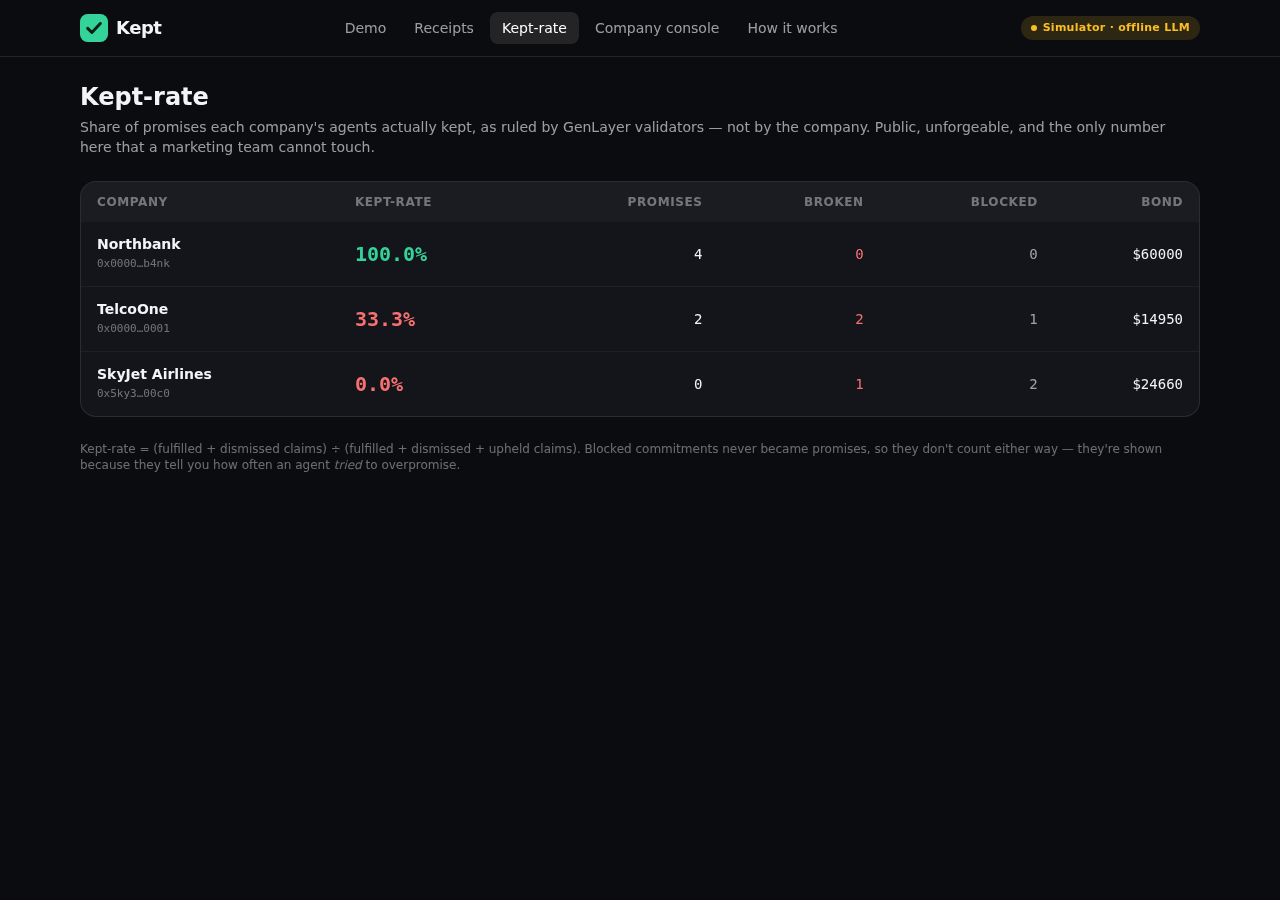
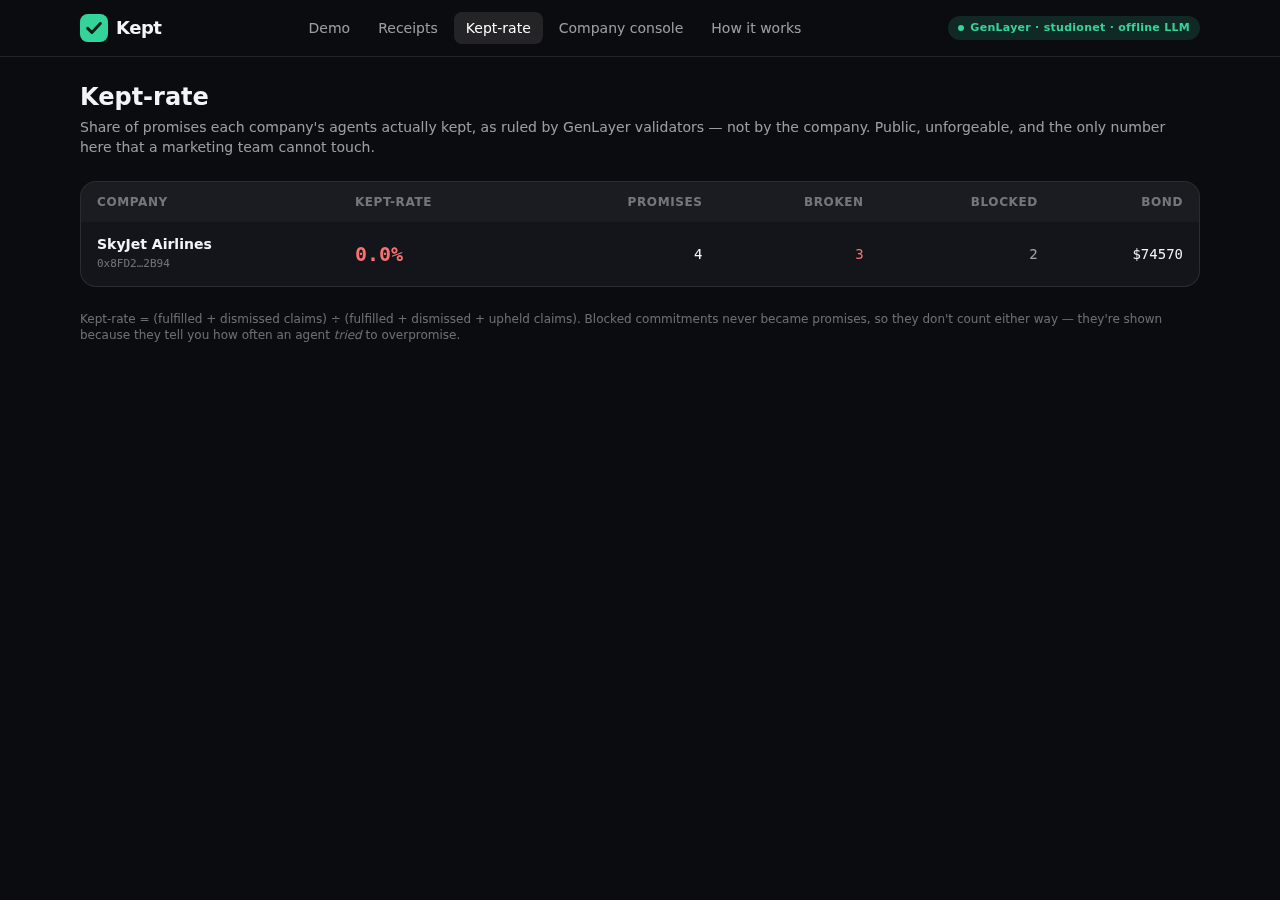
chain: deploy script + studionet deployment (0x9a4C…2F57); CalldataAddress args; per-visitor burner identity (cookie) so each visitor owns their receipts and claims; real validator votes surfaced; immediate-claim demo window

diff --git a/web/src/app/r/[id]/page.tsx b/web/src/app/r/[id]/page.tsx
@@ -15,6 +15,8 @@ export default function ReceiptPage({ params }: { params: { id: string } }) {
   const [err, setErr] = useState<string | null>(null);
   const [tab, setTab] = useState<"customer" | "company">("customer");
   const [proof, setProof] = useState("");
+  const [me, setMe] = useState<{ user?: string; backend?: string; immediateClaims?: boolean }>({});
+  useEffect(() => { fetch("/api/backend").then((x) => x.json()).then(setMe).catch(() => {}); }, []);
 
   const load = () => fetch(`/api/receipt/${params.id}`).then(async (x) => { if (x.status === 404) { setNotFound(true); return; } setR((await x.json()).receipt); });
   useEffect(() => { load(); /* eslint-disable-next-line */ }, [params.id]);
@@ -22,8 +24,10 @@ export default function ReceiptPage({ params }: { params: { id: string } }) {
   if (notFound) return <div className="card p-8 text-center text-white/60">No receipt <span className="mono">{params.id}</span>.</div>;
   if (!r) return <div className="text-white/40">Loading…</div>;
 
-  const overdue = new Date(r.due + "T00:00:00Z").getTime() < Date.now();
+  const overdue = new Date(r.due + "T00:00:00Z").getTime() <= Date.now();
   const canClaim = r.status === "ACTIVE";
+  const mine = !!me.user && me.user.toLowerCase() === r.user.toLowerCase();
+  const onChain = me.backend === "chain";
 
   async function claim() {
     if (!r) return;
@@ -33,7 +37,7 @@ export default function ReceiptPage({ params }: { params: { id: string } }) {
       const res = await fetch("/api/claim", { method: "POST", headers: { "content-type": "application/json" }, body: JSON.stringify({ id: r.id, evidence, today: today || undefined }) });
       const d = await res.json();
       if (d.error) throw new Error(d.error);
-      setLog((l) => [...l, `Verdict: ${d.verdict}${d.votes ? ` (${d.votes})` : ""}.`, d.verdict === "UPHELD" ? `$${d.receipt.payout} paid from ${r.company_name}'s bond to ${short(r.user)}.` : "Claim dismissed. Kept-rate unchanged."]);
+      setLog((l) => [...l, `Verdict: ${d.verdict}${d.votes ? ` — ${d.votes}` : ""}.`, d.verdict === "UPHELD" ? `$${d.receipt.payout} paid from ${r.company_name}'s bond to ${short(r.user)}.` : "Claim dismissed. Kept-rate unchanged."]);
       setR(d.receipt);
     } catch (e: any) { setErr(e.message); } finally { setBusy(null); }
   }
@@ -63,7 +67,7 @@ export default function ReceiptPage({ params }: { params: { id: string } }) {
         <div className="text-2xl font-bold leading-snug">{r.promise}</div>
         <dl className="mt-5 grid gap-x-8 gap-y-3 text-sm sm:grid-cols-2">
           <div><dt className="k">Company</dt><dd className="mt-0.5"><Link className="underline" href={`/console?c=${r.company}`}>{r.company_name}</Link> <span className="mono text-white/40">{short(r.company)}</span></dd></div>
-          <div><dt className="k">Promised to</dt><dd className="mono mt-0.5">{short(r.user)}</dd></div>
+          <div><dt className="k">Promised to</dt><dd className="mono mt-0.5">{short(r.user)} {mine && <span className="pill ml-1 bg-mint/15 text-mint">YOU</span>}</dd></div>
           <div><dt className="k">Value</dt><dd className="mono mt-0.5">{r.amount > 0 ? `$${r.amount}` : "—"}</dd></div>
           <div><dt className="k">Due</dt><dd className="mono mt-0.5">{r.due} {canClaim && overdue && <span className="pill ml-2 bg-amber/15 text-amber">OVERDUE</span>}</dd></div>
           <div className="sm:col-span-2"><dt className="k">Envelope check</dt><dd className="mt-0.5">{r.status === "BLOCKED" ? <span className="text-rose">✕ outside authority</span> : <span className="text-mint">✓ within authority</span>} <span className="text-white/60">— {r.check_reason}</span></dd></div>
@@ -72,7 +76,7 @@ export default function ReceiptPage({ params }: { params: { id: string } }) {
           {r.verdict_reason && <div className="sm:col-span-2"><dt className="k">Validators&apos; reasoning</dt><dd className="mt-0.5 text-white/80">{r.verdict_reason}</dd></div>}
           {r.status === "UPHELD" && <div className="sm:col-span-2 rounded-xl bg-mint/10 p-3 text-mint"><b>${r.payout}</b> paid to {short(r.user)} from {r.company_name}&apos;s bond.</div>}
           <div><dt className="k">Created</dt><dd className="mono mt-0.5 text-white/60">{r.created_at}</dd></div>
-          <div><dt className="k">Anchored</dt><dd className="mono mt-0.5 text-white/60">{r.tx ? r.tx : "GenLayer (simulator)"}</dd></div>
+          <div className="sm:col-span-2"><dt className="k">Anchored</dt><dd className="mono mt-0.5 break-all text-white/60">{onChain ? <>GenLayer {me.backend === "chain" ? "" : ""}{r.tx ? <a className="underline" href={`https://genlayer-explorer.vercel.app/tx/${r.tx}`} target="_blank" rel="noreferrer">{r.tx}</a> : "(read from contract)"}</> : "simulator twin of the contract (no chain)"}</dd></div>
         </dl>
       </div>
 
@@ -89,12 +93,13 @@ export default function ReceiptPage({ params }: { params: { id: string } }) {
           {tab === "customer" ? (
             <div className="space-y-3">
               <h3 className="font-bold">Not honored? Claim it.</h3>
-              <p className="text-sm text-white/60">GenLayer validators read the transcript and your evidence, then rule. If upheld, <b className="text-white">${Math.max(r.amount, 0)}</b> is paid from {r.company_name}&apos;s bond automatically. Claims open after the due date.</p>
+              <p className="text-sm text-white/60">GenLayer validators read the transcript and your evidence, then rule. If upheld, <b className="text-white">${Math.max(r.amount, 0)}</b> is paid from {r.company_name}&apos;s bond automatically. Claims open on the due date{onChain && me.immediateClaims ? " — for this demo the due date is set to today so you don't have to wait five business days" : ""}.</p>
+              {!mine && <p className="rounded-lg bg-amber/10 p-2 text-xs text-amber">This promise was made to a different visitor. The contract only lets the promised user claim — go make your own promise in the demo chat.</p>}
               <textarea className="input min-h-[80px]" placeholder="What happened? e.g. It's been 9 business days and nothing arrived. Bank statement attached in the ticket." value={evidence} onChange={(e) => setEvidence(e.target.value)} />
               <div className="flex flex-wrap items-center gap-3">
-                <label className="text-xs text-white/50">Demo clock <input className="input ml-2 inline-block w-40 !py-1.5" placeholder="YYYY-MM-DD (fast-forward)" value={today} onChange={(e) => setToday(e.target.value)} /></label>
-                {!overdue && !today && <button className="text-xs text-mint underline" onClick={() => { const d = new Date(r.due + "T00:00:00Z"); d.setUTCDate(d.getUTCDate() + 5); setToday(d.toISOString().slice(0, 10)); }}>fast-forward past due date</button>}
-                <button className="btn-primary ml-auto" onClick={claim} disabled={!!busy || !evidence.trim()}>{busy === "claim" ? "Validators ruling…" : "File claim"}</button>
+                {!onChain && <label className="text-xs text-white/50">Demo clock <input className="input ml-2 inline-block w-40 !py-1.5" placeholder="YYYY-MM-DD (fast-forward)" value={today} onChange={(e) => setToday(e.target.value)} /></label>}
+                {!onChain && !overdue && !today && <button className="text-xs text-mint underline" onClick={() => { const d = new Date(r.due + "T00:00:00Z"); d.setUTCDate(d.getUTCDate() + 5); setToday(d.toISOString().slice(0, 10)); }}>fast-forward past due date</button>}
+                <button className="btn-primary ml-auto" onClick={claim} disabled={!!busy || !evidence.trim() || !mine}>{busy === "claim" ? (onChain ? "Validators ruling on GenLayer… ~20s" : "Validators ruling…") : "File claim"}</button>
               </div>
             </div>
           ) : (

diff --git a/web/src/lib/chain.ts b/web/src/lib/chain.ts
@@ -10,6 +10,12 @@
 import { createClient, createAccount } from "genlayer-js";
 import * as chains from "genlayer-js/chains";
 import type { Company, Receipt, Stats } from "./types";
+import { CalldataAddress } from "genlayer-js/types";
+
+/** Contract `Address` params must be calldata addresses, not hex strings. */
+export function addr(hex: string) {
+  return new CalldataAddress(Uint8Array.from(Buffer.from(hex.replace(/^0x/, ""), "hex")));
+}
 
 const ADDRESS = (process.env.KEPT_CONTRACT || "") as `0x${string}`;
 const NET = process.env.GENLAYER_NETWORK || "studionet";
@@ -30,6 +36,14 @@ function client(privateKey?: string) {
 
 export const companyKey = () => process.env.KEPT_COMPANY_KEY as `0x${string}` | undefined;
 export const userKey = () => process.env.KEPT_USER_KEY as `0x${string}` | undefined;
+
+/** Studio faucet (studionet / localnet). The SDK's fundAccount refuses non-localnet chains; the RPC itself is fine. */
+export async function fundAccount(address: string, amount = 100000): Promise<boolean> {
+  const url = process.env.GENLAYER_RPC || chain().rpcUrls.default.http[0];
+  const res = await fetch(url, { method: "POST", headers: { "content-type": "application/json" }, body: JSON.stringify({ jsonrpc: "2.0", id: 1, method: "sim_fundAccount", params: [address, amount] }) });
+  const data = await res.json().catch(() => ({}));
+  return Boolean(data.result);
+}
 
 export function addressOf(privateKey: string): string {
   return createAccount(privateKey as `0x${string}`).address;
@@ -66,7 +80,7 @@ export const chainApi = {
     return write(privateKey, "register", [name, envelope], bond);
   },
   async commit(privateKey: string, user: string, promise: string, amount: number, due: string, transcript: string): Promise<{ id: string; hash: string }> {
-    const { hash, receipt } = await write(privateKey, "commit", [user, promise, amount, due, transcript]);
+    const { hash, receipt } = await write(privateKey, "commit", [addr(user), promise, amount, due, transcript]);
     // result of the write is the receipt id; fall back to scanning the company's receipts
     let id: string | undefined = extractReturn(receipt);
     if (!id) {
@@ -80,16 +94,23 @@ export const chainApi = {
     return write(privateKey, "mark_fulfilled", [id, proof]);
   },
   async claim(privateKey: string, id: string, evidence: string) {
-    return write(privateKey, "claim", [id, evidence]);
+    const out = await write(privateKey, "claim", [id, evidence]);
+    return { ...out, votes: votesOf(out.receipt) };
   },
   getReceipt: (id: string) => read<any>("get_receipt", [id]).then(toReceipt),
-  getCompany: (address: string) => read<any>("get_company", [address]).then(toCompany),
+  getCompany: (address: string) => read<any>("get_company", [addr(address)]).then(toCompany),
   leaderboard: () => read<any[]>("leaderboard").then((l) => l.map(toCompany)),
   listReceipts: (limit = 50) => read<any[]>("list_receipts", [limit]).then((l) => l.map(toReceipt)),
-  receiptsForUser: (u: string) => read<any[]>("receipts_for_user", [u]).then((l) => l.map(toReceipt)),
-  receiptsForCompany: (c: string) => read<any[]>("receipts_for_company", [c]).then((l) => l.map(toReceipt)),
+  receiptsForUser: (u: string) => read<any[]>("receipts_for_user", [addr(u)]).then((l) => l.map(toReceipt)),
+  receiptsForCompany: (c: string) => read<any[]>("receipts_for_company", [addr(c)]).then((l) => l.map(toReceipt)),
   stats: () => read<any>("stats").then((s) => Object.fromEntries(Object.entries(s).map(([k, v]) => [k, Number(v)])) as unknown as Stats),
 };
+
+/** Validator votes from a transaction receipt: e.g. ["agree","agree","agree"] (idle validators omitted). */
+export function votesOf(receipt: any): string[] {
+  const v = receipt?.consensus_data?.votes || {};
+  return Object.values(v).filter((x) => x !== "idle") as string[];
+}
 
 function extractReturn(receipt: any): string | undefined {
   // genlayer-js receipts carry the execution result in a few possible places depending on version

diff --git a/web/src/lib/kept.ts b/web/src/lib/kept.ts
@@ -3,7 +3,7 @@
  *   KEPT_BACKEND=chain|sim   (default: chain if KEPT_CONTRACT is set, else sim)
  * Every call reports which backend served it so the UI can show it honestly.
  */
-import { chainApi, chainConfigured, companyKey, userKey, addressOf, chainName } from "./chain";
+import { chainApi, chainConfigured, companyKey, userKey, addressOf, chainName, fundAccount } from "./chain";
 import { sim } from "./sim";
 import type { Backend, Company, Receipt, Stats } from "./types";
 
@@ -16,7 +16,17 @@ export function backend(): Backend {
   return chainConfigured ? "chain" : "sim";
 }
 export function backendInfo() {
-  return { backend: backend(), network: backend() === "chain" ? chainName() : "sim", contract: process.env.KEPT_CONTRACT || null };
+  return { backend: backend(), network: backend() === "chain" ? chainName() : "sim", contract: process.env.KEPT_CONTRACT || null, immediateClaims: immediateClaims() };
+}
+
+/**
+ * Demo knob: on a real chain the contract enforces `today >= due` before a claim can be filed.
+ * Nobody can wait five business days inside a demo, so by default the middleware sets the
+ * on-chain `due` to today, opening the claim window at once. Set KEPT_REAL_DUE_DATES=1 to use
+ * the deadline the agent actually stated.
+ */
+export function immediateClaims(): boolean {
+  return process.env.KEPT_REAL_DUE_DATES !== "1";
 }
 
 export function companyAddress(): string {
@@ -71,17 +81,24 @@ export const kept = {
     }
     return sim.markFulfilled(companyAddress(), id, proof);
   },
-  async claim(id: string, evidence: string, today?: string): Promise<Receipt> {
+  /** `signer` = the claimant's private key (chain) / address (sim). Defaults to the shared demo user. */
+  async claim(id: string, evidence: string, today?: string, signer?: string): Promise<Receipt> {
     if (backend() === "chain") {
-      const key = userKey(); if (!key) throw new Error("connect a wallet to claim (or set KEPT_USER_KEY)");
-      const { hash } = await chainApi.claim(key, id, evidence);
-      const r = await chainApi.getReceipt(id); return { ...r, tx: hash };
+      const key = signer || userKey(); if (!key) throw new Error("no claimant key (set KEPT_USER_KEY)");
+      const { hash, votes } = await chainApi.claim(key, id, evidence);
+      const r = await chainApi.getReceipt(id); return { ...r, tx: hash, votes } as Receipt;
     }
-    return sim.claim(defaultUserAddress(), id, evidence, today);
+    return sim.claim(signer ? addressOf(signer) : defaultUserAddress(), id, evidence, today);
   },
   async registerDemoCompany(name: string, envelope: string, bond: number): Promise<Company> {
     if (backend() === "chain") {
       const key = companyKey(); if (!key) throw new Error("KEPT_COMPANY_KEY not set");
+      const already = await chainApi.getCompany(addressOf(key)).catch(() => null);
+      if (already && already.name && already.bond >= bond) return already;   // idempotent on chain
+      if (["studionet", "localnet"].includes(chainName())) {
+        await fundAccount(addressOf(key), bond * 4).catch(() => false);
+        if (userKey()) await fundAccount(addressOf(userKey()!), 1000).catch(() => false);
+      }
       await chainApi.register(key, name, envelope, BigInt(bond));
       return chainApi.getCompany(addressOf(key));
     }

diff --git a/web/src/app/api/chat/route.ts b/web/src/app/api/chat/route.ts
@@ -1,6 +1,7 @@
 import { NextResponse } from "next/server";
 import { agentReply, detectPromise, BLOCKED_REPLY } from "@/lib/agent";
-import { kept, defaultUserAddress } from "@/lib/kept";
+import { kept, immediateClaims } from "@/lib/kept";
+import { visitorId, visitorAddress, withVisitorCookie } from "@/lib/visitor";
 import type { ChatMessage } from "@/lib/types";
 export const dynamic = "force-dynamic";
 export const maxDuration = 120;
@@ -12,22 +13,25 @@ export const maxDuration = 120;
  */
 export async function POST(req: Request) {
   try {
-    const { messages, user } = (await req.json()) as { messages: ChatMessage[]; user?: string };
+    const { messages } = (await req.json()) as { messages: ChatMessage[] };
     const history = (messages || []).slice(-12);
-    const userAddr = user || defaultUserAddress();
+    const v = visitorId();
+    const userAddr = visitorAddress(v.id);
+    const done = (body: any) => withVisitorCookie(NextResponse.json(body), v);
 
     const raw = await agentReply(history);
     const detected = await detectPromise(history, raw);
-    if (!detected) return NextResponse.json({ reply: raw, detected: null });
+    if (!detected) return done({ reply: raw, detected: null });
 
     const transcript = [...history, { role: "assistant", content: raw }]
       .map((m) => `${m.role === "user" ? "User" : "Agent"}: ${m.content}`).join("\n");
-    const receipt = await kept.commit(userAddr, detected.promise, detected.amount, detected.due, transcript);
+    const due = immediateClaims() ? new Date().toISOString().slice(0, 10) : detected.due;
+    const receipt = await kept.commit(userAddr, detected.promise, detected.amount, due, transcript);
 
     if (receipt.status === "BLOCKED") {
-      return NextResponse.json({ reply: BLOCKED_REPLY, blocked: true, draft: raw, receipt, detected });
+      return done({ reply: BLOCKED_REPLY, blocked: true, draft: raw, receipt, detected });
     }
-    return NextResponse.json({ reply: raw, receipt, detected });
+    return done({ reply: raw, receipt, detected });
   } catch (e: any) {
     return NextResponse.json({ error: e.message || String(e) }, { status: 500 });
   }

diff --git a/web/src/lib/visitor.ts b/web/src/lib/visitor.ts
@@ -1,0 +1,36 @@
+/**
+ * Per-visitor burner identity.
+ * Every browser gets a random id in a cookie; the server derives a private key from
+ * (secret, id). Receipts are committed *to that address* and claims are signed *by it*.
+ * It's custodial and demo-grade — in production the customer's own wallet (or the support
+ * platform's user id → wallet mapping) takes this place. It keeps "your receipt, your claim"
+ * honest without asking judges to add studionet to MetaMask.
+ */
+import { cookies } from "next/headers";
+import { keccak256, toHex } from "viem";
+import { createAccount } from "genlayer-js";
+
+const COOKIE = "kept_visitor";
+const SECRET = process.env.KEPT_VISITOR_SECRET || "kept-demo-secret-change-me";
+
+export function visitorId(): { id: string; isNew: boolean } {
+  const jar = cookies();
+  const existing = jar.get(COOKIE)?.value;
+  if (existing && /^[a-f0-9]{32}$/.test(existing)) return { id: existing, isNew: false };
+  const id = Array.from(crypto.getRandomValues(new Uint8Array(16))).map((b) => b.toString(16).padStart(2, "0")).join("");
+  return { id, isNew: true };
+}
+
+export function visitorKey(id: string): `0x${string}` {
+  return keccak256(toHex(`${SECRET}:${id}`));
+}
+
+export function visitorAddress(id: string): string {
+  return createAccount(visitorKey(id)).address;
+}
+
+/** Attach the cookie to a response when the visitor is new. */
+export function withVisitorCookie<T extends Response>(res: T, v: { id: string; isNew: boolean }): T {
+  if (v.isNew) res.headers.append("set-cookie", `${COOKIE}=${v.id}; Path=/; Max-Age=31536000; SameSite=Lax; HttpOnly`);
+  return res;
+}

diff --git a/web/src/app/api/claim/route.ts b/web/src/app/api/claim/route.ts
@@ -1,13 +1,20 @@
 import { NextResponse } from "next/server";
 import { kept } from "@/lib/kept";
+import { visitorId, visitorKey, withVisitorCookie } from "@/lib/visitor";
 export const dynamic = "force-dynamic";
 export const maxDuration = 120;
 export async function POST(req: Request) {
   try {
     const { id, evidence, today } = await req.json();
-    const r = await kept.claim(id, evidence || "", today);
+    const v = visitorId();
+    const r = await kept.claim(id, evidence || "", today, visitorKey(v.id));
     const votes = (r as any).votes as string[] | undefined;
-    return NextResponse.json({ receipt: r, verdict: r.status, votes: votes ? `${votes.filter((v) => v === "UPHOLD").length}–${votes.filter((v) => v === "DISMISS").length} validators` : undefined });
+    let summary: string | undefined;
+    if (votes?.length) {
+      const agree = votes.filter((x) => x === "agree" || x === r.status.replace("UPHELD", "UPHOLD").replace("DISMISSED", "DISMISS")).length;
+      summary = `${agree} of ${votes.length} validators agreed`;
+    }
+    return withVisitorCookie(NextResponse.json({ receipt: r, verdict: r.status, votes: summary }), v);
   } catch (e: any) {
     return NextResponse.json({ error: e.message || String(e) }, { status: 400 });
   }

diff --git a/web/src/components/Chat.tsx b/web/src/components/Chat.tsx
@@ -89,7 +89,7 @@ export default function Chat() {
           {busy && (
             <div className="rise flex items-center gap-3 text-xs text-white/50">
               <div className="rounded-2xl bg-[#24252e] px-4 py-3"><span className="dots"><span /><span /><span /></span></div>
-              {busy === "checking" && <span className="pill bg-mint/10 text-mint"><Logo size={12} word={false} /> validators checking the promise against the envelope…</span>}
+              {busy === "checking" && <span className="pill bg-mint/10 text-mint"><Logo size={12} word={false} /> GenLayer validators checking the promise against the envelope…</span>}
             </div>
           )}
           {error && <div className="rounded-xl border border-rose/40 bg-rose/10 p-3 text-sm text-rose">{error}</div>}

diff --git a/web/src/app/api/backend/route.ts b/web/src/app/api/backend/route.ts
@@ -1,7 +1,9 @@
 import { NextResponse } from "next/server";
-import { backendInfo, companyAddress, defaultUserAddress } from "@/lib/kept";
+import { backendInfo, companyAddress } from "@/lib/kept";
 import { llmConfigured } from "@/lib/llm";
+import { visitorId, visitorAddress, withVisitorCookie } from "@/lib/visitor";
 export const dynamic = "force-dynamic";
 export async function GET() {
-  return NextResponse.json({ ...backendInfo(), llm: llmConfigured ? "live" : "offline", company: companyAddress(), user: defaultUserAddress() });
+  const v = visitorId();
+  return withVisitorCookie(NextResponse.json({ ...backendInfo(), llm: llmConfigured ? "live" : "offline", company: companyAddress(), user: visitorAddress(v.id) }), v);
 }
